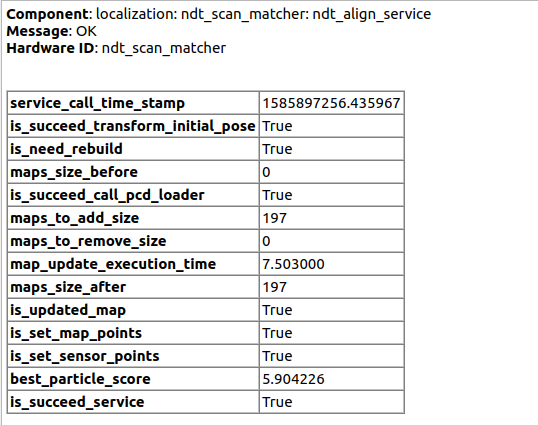
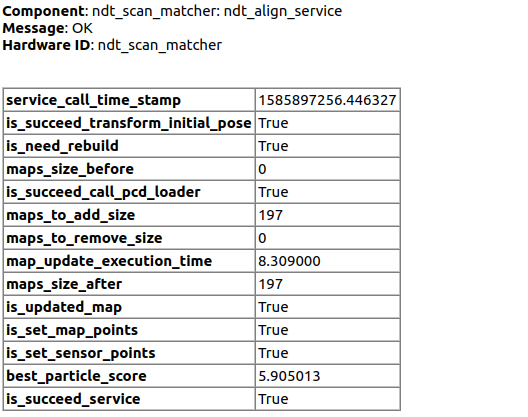
remove diag prefix

Changed region(s): [[0.0, 0.1871, 0.7576, 0.9976], [0.0, 0.0, 0.8182, 0.1559]]

diff --git a/localization/ndt_scan_matcher/src/ndt_scan_matcher_core.cpp b/localization/ndt_scan_matcher/src/ndt_scan_matcher_core.cpp
@@ -116,7 +116,7 @@ NDTScanMatcher::NDTScanMatcher(const rclcpp::NodeOptions & options)
       std::make_unique<SmartPoseBuffer>(this->get_logger(), value_as_unlimited, value_as_unlimited);
 
     diagnostics_regularization_pose_ =
-      std::make_unique<DiagnosticsModule>(this, "localization", "regularization_pose_callback");
+      std::make_unique<DiagnosticsModule>(this, "regularization_pose_callback");
   }
 
   sensor_aligned_pose_pub_ =
@@ -183,15 +183,15 @@ NDTScanMatcher::NDTScanMatcher(const rclcpp::NodeOptions & options)
     std::make_unique<MapUpdateModule>(this, &ndt_ptr_mtx_, ndt_ptr_, param_.dynamic_map_loading);
 
   diagnostics_scan_points_ =
-    std::make_unique<DiagnosticsModule>(this, "localization", "sensor_points_callback");
+    std::make_unique<DiagnosticsModule>(this, "sensor_points_callback");
   diagnostics_initial_pose_ =
-    std::make_unique<DiagnosticsModule>(this, "localization", "initial_pose_callback");
+    std::make_unique<DiagnosticsModule>(this, "initial_pose_callback");
   diagnostics_map_update_ =
-    std::make_unique<DiagnosticsModule>(this, "localization", "map_update_module");
+    std::make_unique<DiagnosticsModule>(this, "map_update_module");
   diagnostics_ndt_align_ =
-    std::make_unique<DiagnosticsModule>(this, "localization", "ndt_align_service");
+    std::make_unique<DiagnosticsModule>(this, "ndt_align_service");
   diagnostics_trigger_node_ =
-    std::make_unique<DiagnosticsModule>(this, "localization", "trigger_node_service");
+    std::make_unique<DiagnosticsModule>(this, "trigger_node_service");
 
   logger_configure_ = std::make_unique<tier4_autoware_utils::LoggerLevelConfigure>(this);
 }

diff --git a/localization/ndt_scan_matcher/src/diagnostics_module.cpp b/localization/ndt_scan_matcher/src/diagnostics_module.cpp
@@ -21,9 +21,7 @@
 #include <algorithm>
 #include <string>
 
-DiagnosticsModule::DiagnosticsModule(
-  rclcpp::Node * node, const std::string & prefix_diagnostic_name,
-  const std::string & suffix_diagnostic_name)
+DiagnosticsModule::DiagnosticsModule(rclcpp::Node * node, const std::string & diagnostic_name)
 {
   node_.reset(node);
   if (node_ == nullptr) {
@@ -33,11 +31,7 @@ DiagnosticsModule::DiagnosticsModule(
   diagnostics_pub_ =
     node_->create_publisher<diagnostic_msgs::msg::DiagnosticArray>("/diagnostics", 10);
 
-  const auto prefix_name =
-    prefix_diagnostic_name.empty() ? "" : (prefix_diagnostic_name + std::string(": "));
-  const auto suffix_name =
-    suffix_diagnostic_name.empty() ? "" : (std::string(": ") + suffix_diagnostic_name);
-  diagnostics_status_msg_.name = prefix_name + std::string(node_->get_name()) + suffix_name;
+  diagnostics_status_msg_.name = std::string(node_->get_name()) + std::string(": ") + diagnostic_name;
   diagnostics_status_msg_.hardware_id = node_->get_name();
 }
 

diff --git a/localization/ndt_scan_matcher/include/ndt_scan_matcher/diagnostics_module.hpp b/localization/ndt_scan_matcher/include/ndt_scan_matcher/diagnostics_module.hpp
@@ -25,9 +25,7 @@
 class DiagnosticsModule
 {
 public:
-  DiagnosticsModule(
-    rclcpp::Node * node, const std::string & prefix_diagnostic_name = "",
-    const std::string & suffix_diagnostic_name = "");
+  DiagnosticsModule(rclcpp::Node * node, const std::string & diagnostic_name);
   void clear();
   void addKeyValue(const diagnostic_msgs::msg::KeyValue & key_value_msg);
   template <typename T>
